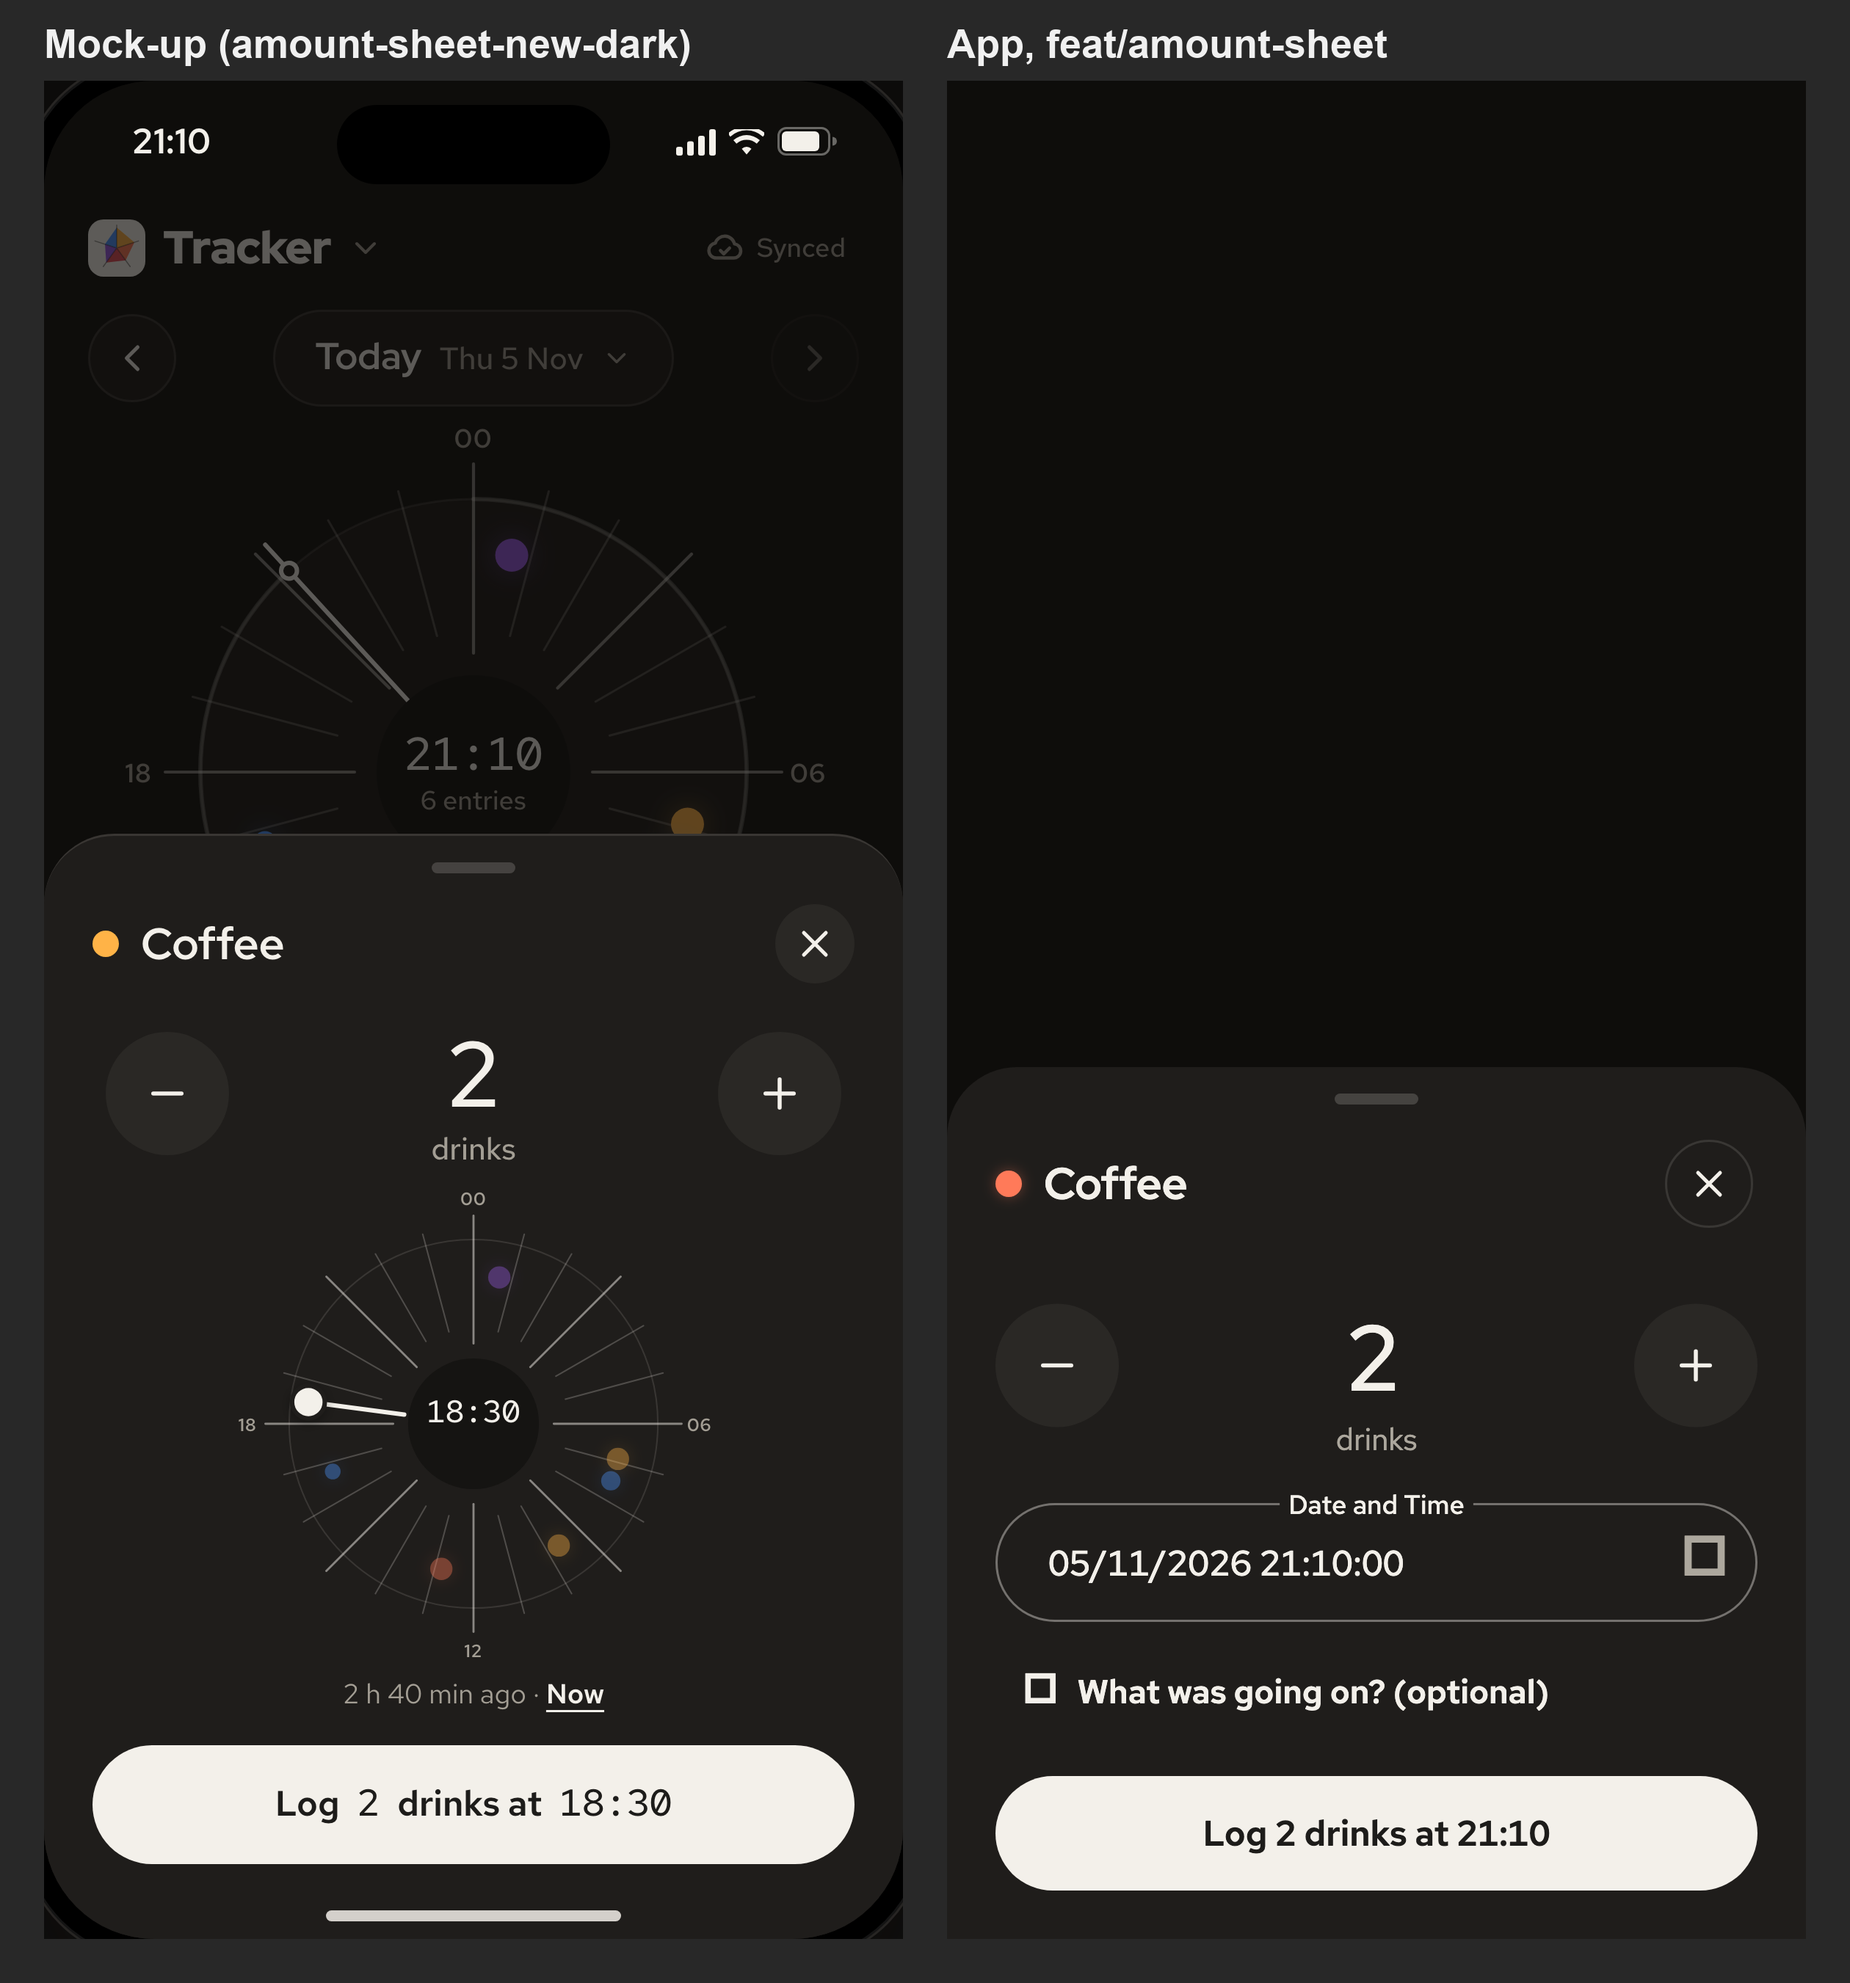
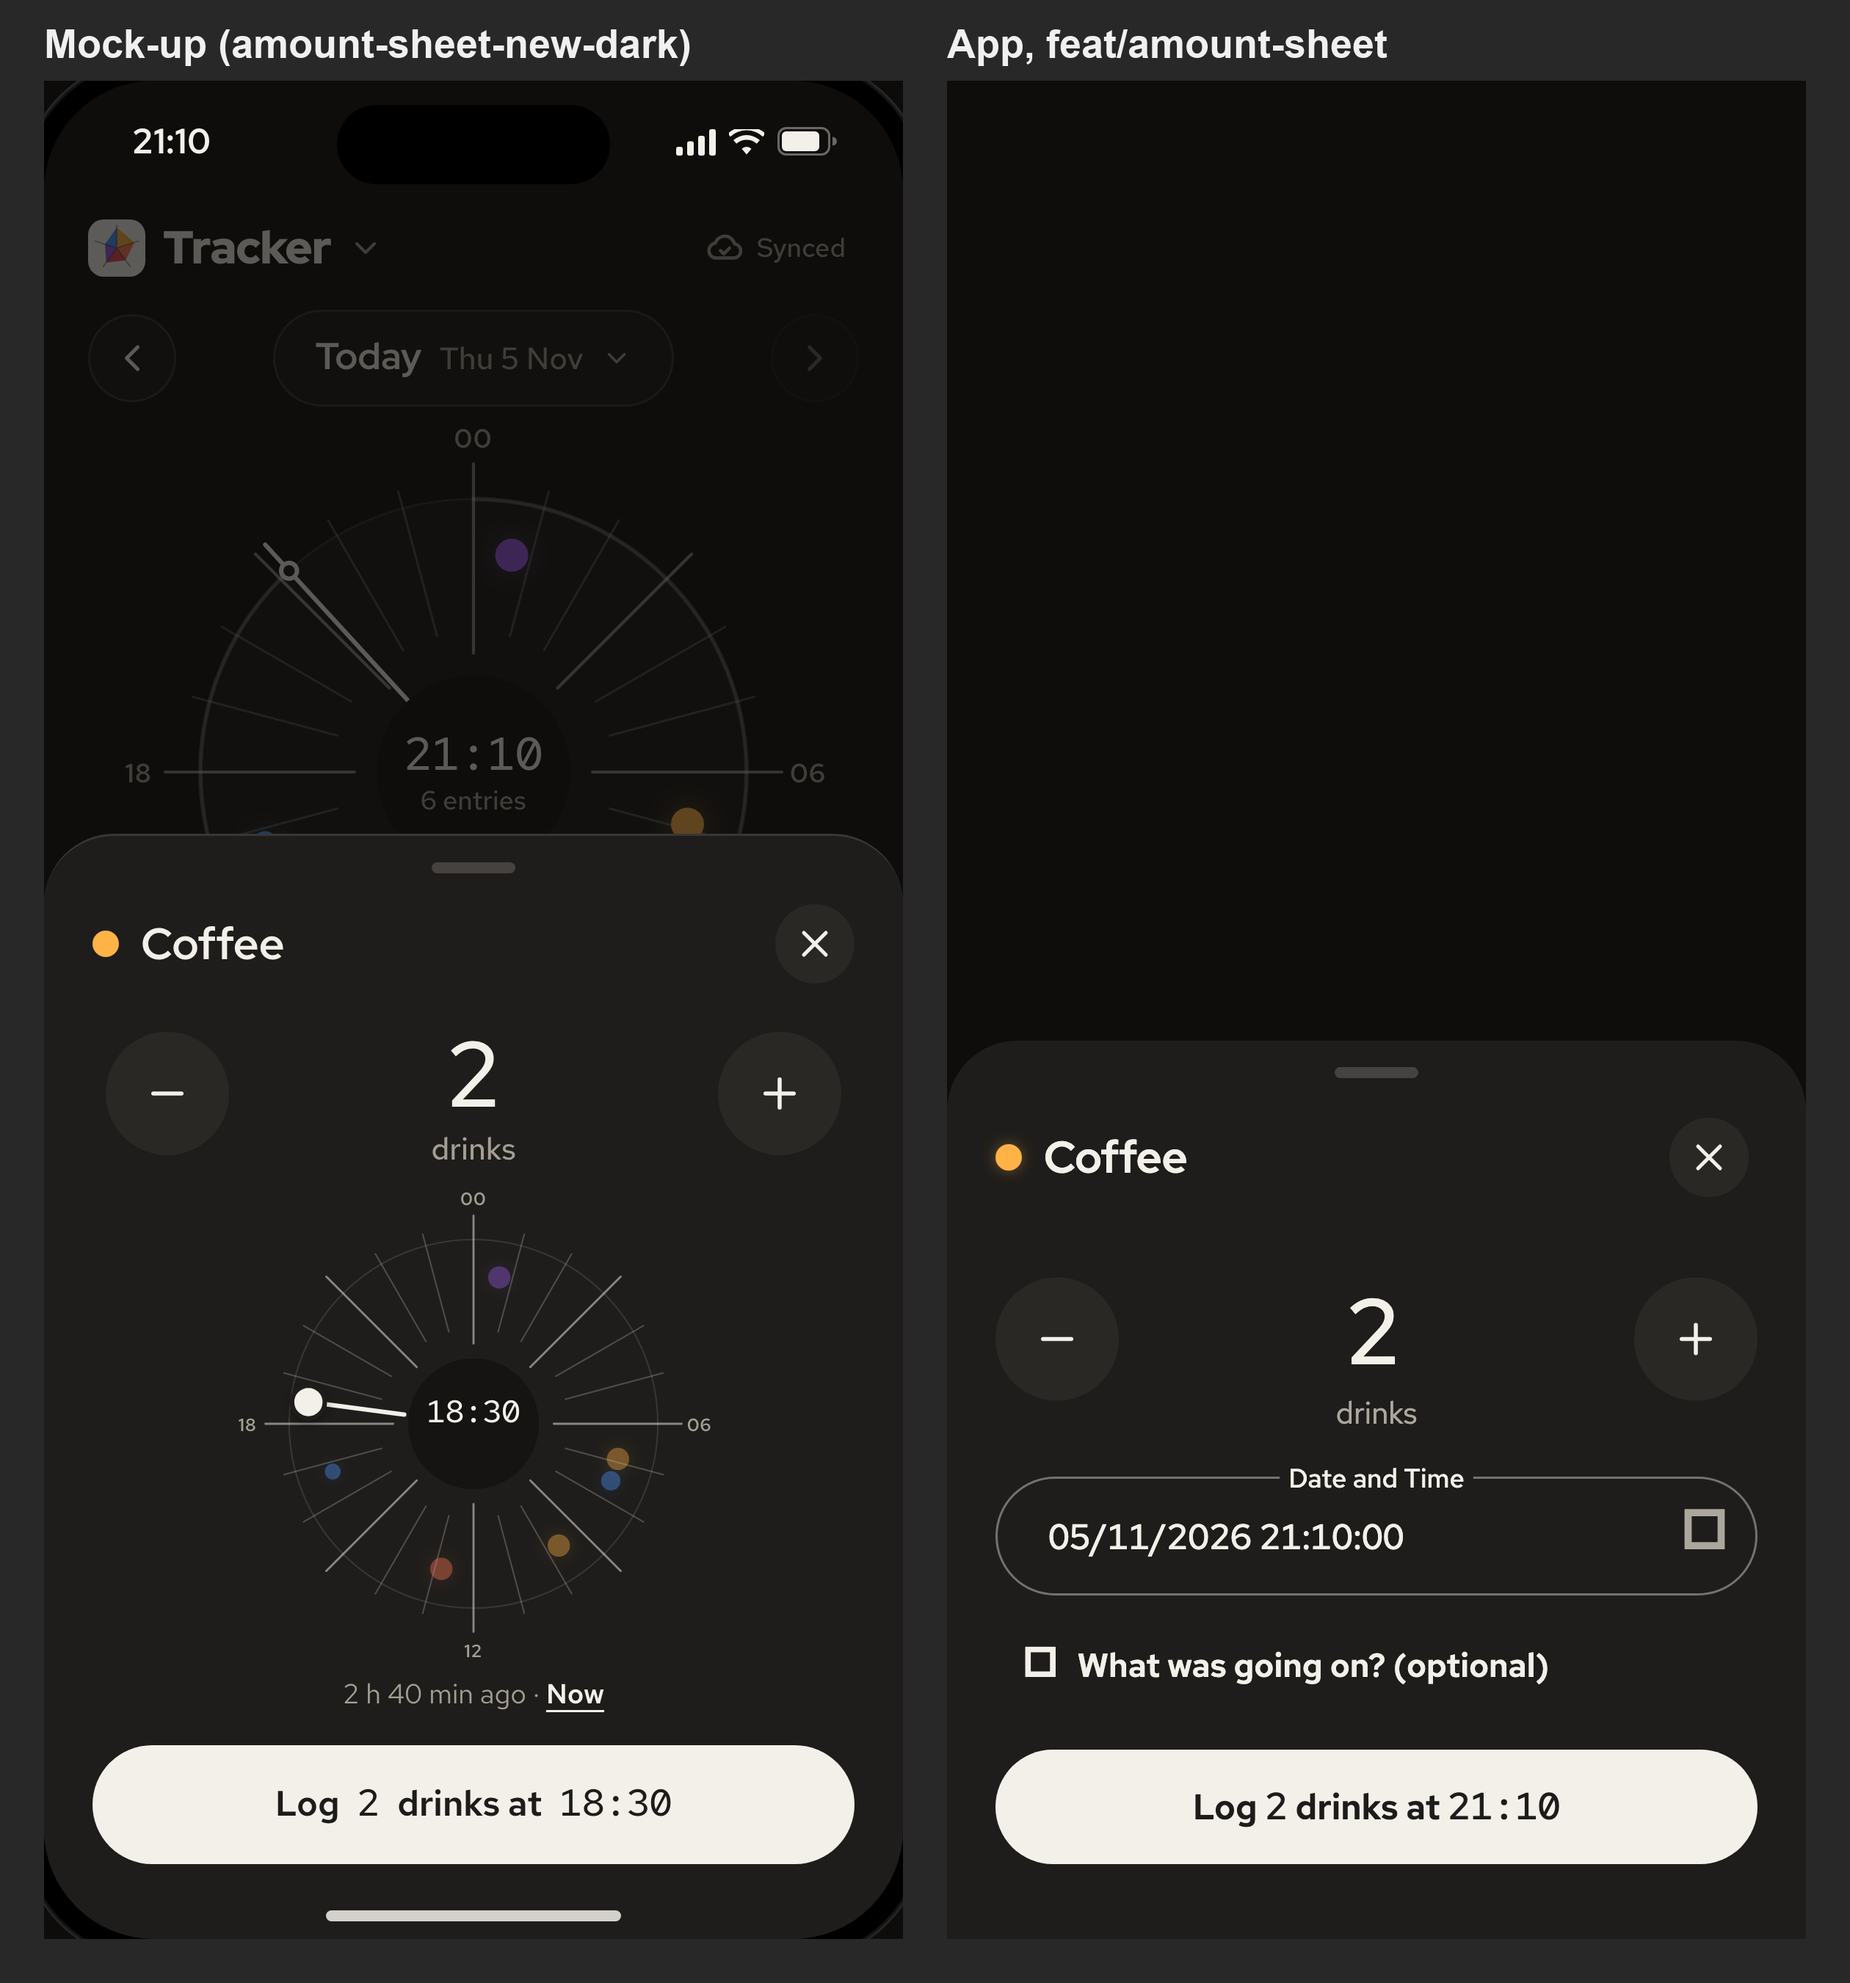
Fix the record helper for a held habit; sheet clears the home indicator
The e2e record helper opened the habit dropdown even when a held wedge's
sheet has none. The sheet's bottom padding now clears the home indicator,
as the mock-up's does; its close circle is the flat 36 pt surface2 one and
the button sets its numbers in Mono. The render's Tea is now newer than
Coffee, so Coffee takes the first mark as in the mock-up.

diff --git a/lib/widgets/record_new_activity_dialog.dart b/lib/widgets/record_new_activity_dialog.dart
@@ -1,3 +1,5 @@
+import 'dart:math' as math;
+
 import 'package:firebase_auth/firebase_auth.dart';
 import 'package:flutter/material.dart';
 import 'package:flutter_riverpod/flutter_riverpod.dart';
@@ -203,21 +205,37 @@ class _RecordNewActivityDialogState
     });
   }
 
-  String _submitLabel(Vice? vice) {
+  // The button's label in runs; the numbers in a run marked true set in Mono.
+  List<(String, bool)> _submitLabel(Vice? vice) {
     final num typed = parseAmount(quantityController.text) ?? 0;
     final DateTime? at = ActivityDateField.format.tryParse(dateController.text);
-    final String amount = vice == null
-        ? 'Record'
-        : 'Log ${vice.unit.label(typed)}';
+    final List<(String, bool)> runs = vice == null
+        ? <(String, bool)>[('Record', false)]
+        : <(String, bool)>[
+            ('Log ', false),
+            (formatCount(typed), true),
+            (' ${vice.unit.nameFor(typed)}', false),
+          ];
     if (at == null) {
-      return amount;
+      return runs;
     }
-    return '$amount at ${formatTime(at, alwaysUse24HourFormat: MediaQuery.alwaysUse24HourFormatOf(context))}';
+    return <(String, bool)>[
+      ...runs,
+      (' at ', false),
+      (
+        formatTime(
+          at,
+          alwaysUse24HourFormat: MediaQuery.alwaysUse24HourFormatOf(context),
+        ),
+        true,
+      ),
+    ];
   }
 
   Widget _header(BuildContext context, List<Vice> vices, Vice? chosen) {
     final List<Vice> all = ref.watch(viceListProvider).value ?? vices;
     final Widget close = CircleButton(
+      flat: true,
       icon: DialGlyph.close,
       tooltip: 'Close',
       onPressed: loading ? null : () => Navigator.of(context).pop(),
@@ -362,10 +380,12 @@ class _RecordNewActivityDialogState
                           dateController,
                         ]),
                         builder: (BuildContext context, _) {
-                          final String label = _submitLabel(chosen);
+                          final List<(String, bool)> runs = _submitLabel(
+                            chosen,
+                          );
                           return Semantics(
                             label: RecordNewActivityDialog.submitLabel,
-                            hint: label,
+                            hint: runs.map(((String, bool) r) => r.$1).join(),
                             excludeSemantics: true,
                             button: true,
                             enabled: !loading,
@@ -373,8 +393,21 @@ class _RecordNewActivityDialogState
                             child: FilledButton(
                               key: RecordNewActivityDialog.submitKey,
                               onPressed: loading ? null : _record,
-                              child: Text(
-                                label,
+                              child: Text.rich(
+                                TextSpan(
+                                  children: <InlineSpan>[
+                                    for (final (String text, bool mono) in runs)
+                                      TextSpan(
+                                        text: text,
+                                        style: mono
+                                            ? DialTypeScale.monoM.copyWith(
+                                                fontSize: 17,
+                                                height: 1,
+                                              )
+                                            : null,
+                                      ),
+                                  ],
+                                ),
                                 style: DialTypeScale.label.copyWith(
                                   fontSize: 16,
                                 ),
@@ -427,7 +460,12 @@ class _SheetFrame extends StatelessWidget {
           22,
           12,
           22,
-          22 + MediaQuery.viewInsetsOf(context).bottom,
+          // Clear of the home indicator, as the mock-up's sheet is, or of
+          // the keyboard while it is up (the padding drops to 0 then).
+          math.max(
+            MediaQuery.viewInsetsOf(context).bottom + 22,
+            math.max(MediaQuery.paddingOf(context).bottom, 22),
+          ),
         ),
         child: Column(
           mainAxisSize: MainAxisSize.min,

diff --git a/lib/widgets/circle_button.dart b/lib/widgets/circle_button.dart
@@ -4,7 +4,8 @@ import 'package:tracker/design/dial_theme.dart';
 import 'package:tracker/design/tokens.dart';
 
 // The 40 pt round button for day arrows, close and back, with a 44 pt target
-// and the card shadow in light.
+// and the card shadow in light. [flat] is the 36 pt `surface2` circle a sheet's
+// header closes with: no shadow, no edge.
 class CircleButton extends StatelessWidget {
   const CircleButton({
     super.key,
@@ -12,12 +13,16 @@ class CircleButton extends StatelessWidget {
     required this.tooltip,
     required this.onPressed,
     this.focusNode,
+    this.flat = false,
   });
 
   final DialGlyph icon;
   final String tooltip;
   final VoidCallback? onPressed;
   final FocusNode? focusNode;
+  final bool flat;
+
+  static const double _flatSize = 36;
 
   // Material pads a target to 48 at standard density; one step denser pads it
   // to 44, the iOS minimum, which is the row height the mock-up measures.
@@ -31,19 +36,25 @@ class CircleButton extends StatelessWidget {
     final ThemeData theme = Theme.of(context);
     final ColorScheme scheme = theme.colorScheme;
     final DialColors colors = DialColors.of(context);
+    final double size = flat ? _flatSize : DialSize.circleButton;
+    final Color fill = flat ? colors.surface2 : scheme.surfaceContainerLow;
+    final BorderSide edge = flat
+        ? BorderSide.none
+        : BorderSide(color: colors.line);
 
     return Opacity(
       opacity: onPressed == null ? 0.35 : 1,
       child: Stack(
         alignment: Alignment.center,
         children: <Widget>[
-          DecoratedBox(
-            decoration: BoxDecoration(
-              shape: BoxShape.circle,
-              boxShadow: DialShadows.card(theme.brightness),
+          if (!flat)
+            DecoratedBox(
+              decoration: BoxDecoration(
+                shape: BoxShape.circle,
+                boxShadow: DialShadows.card(theme.brightness),
+              ),
+              child: const SizedBox.square(dimension: DialSize.circleButton),
             ),
-            child: const SizedBox.square(dimension: DialSize.circleButton),
-          ),
           IconButton(
             tooltip: tooltip,
             focusNode: focusNode,
@@ -51,12 +62,12 @@ class CircleButton extends StatelessWidget {
             icon: StrokeIcon(icon, size: 20),
             style:
                 IconButton.styleFrom(
-                  fixedSize: const Size.square(DialSize.circleButton),
-                  minimumSize: const Size.square(DialSize.circleButton),
+                  fixedSize: Size.square(size),
+                  minimumSize: Size.square(size),
                   tapTargetSize: MaterialTapTargetSize.padded,
                   visualDensity: _density,
-                  backgroundColor: scheme.surfaceContainerLow,
-                  disabledBackgroundColor: scheme.surfaceContainerLow,
+                  backgroundColor: fill,
+                  disabledBackgroundColor: fill,
                   foregroundColor: scheme.onSurface,
                   disabledForegroundColor: scheme.onSurface,
                 ).copyWith(
@@ -65,7 +76,7 @@ class CircleButton extends StatelessWidget {
                   side: WidgetStateProperty.resolveWith(
                     (Set<WidgetState> s) => s.contains(WidgetState.focused)
                         ? BorderSide(color: scheme.primary, width: 2)
-                        : BorderSide(color: colors.line),
+                        : edge,
                   ),
                 ),
           ),

diff --git a/integration_test/support.dart b/integration_test/support.dart
@@ -396,10 +396,13 @@ Future<void> recordActivity(
     of: find.byType(RecordNewActivityDialog),
     matching: find.byType(DropdownButtonFormField<String>),
   );
-  if (find
-      .descendant(of: chosen, matching: find.text(viceName))
-      .evaluate()
-      .isEmpty) {
+  // A held wedge titles the sheet with its habit and shows no dropdown; More
+  // opens it with the dropdown and no habit chosen.
+  if (chosen.evaluate().isNotEmpty &&
+      find
+          .descendant(of: chosen, matching: find.text(viceName))
+          .evaluate()
+          .isEmpty) {
     await tap(tester, chosen);
     await tap(tester, find.text(viceName).last);
   }

diff --git a/test/fidelity_amount_sheet_render_test.dart b/test/fidelity_amount_sheet_render_test.dart
@@ -51,7 +51,18 @@ void main() {
     createdAt: Timestamp.fromDate(DateTime.utc(2026, 1, 1)),
     archived: false,
   );
-  final List<Vice> habits = <Vice>[coffee, fakeVice('tea', name: 'Tea')];
+  // Coffee is the oldest habit, so it takes the first mark, as in the mock-up.
+  final List<Vice> habits = <Vice>[
+    coffee,
+    Vice(
+      id: 'tea',
+      name: 'Tea',
+      unit: Unit.drink,
+      ownerID: ownerID,
+      createdAt: Timestamp.fromDate(DateTime.utc(2026, 1, 2)),
+      archived: false,
+    ),
+  ];
 
   for (final Brightness brightness in Brightness.values) {
     for (final String name in <String>['new', 'edit']) {
